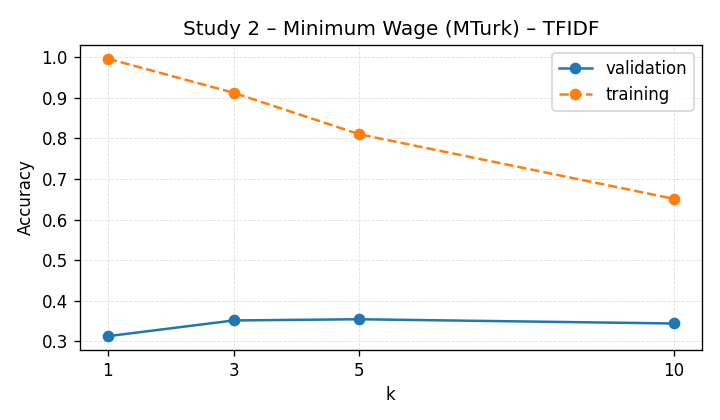
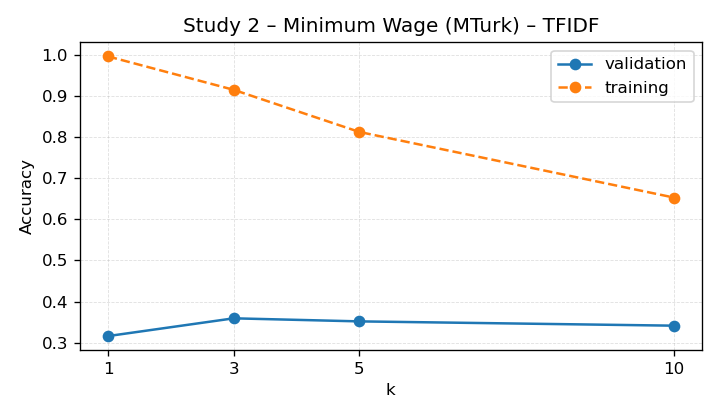
changes

diff --git a/src/gpt4o/evaluate.py b/src/gpt4o/evaluate.py
@@ -13,35 +13,26 @@ responses, and aggregates accuracy and formatting metrics for reporting.
 
 from __future__ import annotations
 
-import json
-import logging
-import time
-from dataclasses import dataclass
-from pathlib import Path
-from typing import TYPE_CHECKING, Iterable, Tuple
+import json, logging, time, pathlib
+import typing
 
-from common.eval_utils import ensure_hf_cache
-from common.hf_datasets import get_dataset_loaders, require_dataset_support
-from common.slate_eval import (
-    EvaluationAccumulator,
-    EvaluationFilters,
-    Observation,
-    SlateMetricsRequest,
-    bucket_from_options,
-    bucket_from_position,
-)
+t = typing
+
+from common import eval_utils as _eval_utils
+from common import hf_datasets as _hf_datasets
+from common import slate_eval
 
 from .client import ds_call
 from .config import DATASET_NAME, DEPLOYMENT_NAME, EVAL_SPLIT
 from .conversation import make_conversation_record
 from .utils import ANS_TAG, INDEX_ONLY
 
-if TYPE_CHECKING:  # pragma: no cover - typing only imports
+if t.TYPE_CHECKING:  # pragma: no cover - typing only imports
     from argparse import Namespace
 else:  # pragma: no cover - runtime fallback for type hints
     Namespace = object  # type: ignore[misc]
 
-DOWNLOAD_CONFIG_CLS, LOAD_DATASET, LOAD_FROM_DISK = get_dataset_loaders()
+DOWNLOAD_CONFIG_CLS, LOAD_DATASET, LOAD_FROM_DISK = _hf_datasets.get_dataset_loaders()
 
 
 def _parse_index_from_output(raw: str) -> int | None:
@@ -70,7 +61,7 @@ def _parse_index_from_output(raw: str) -> int | None:
     return None
 
 
-def _ensure_output_dir(output_dir: Path, overwrite: bool) -> None:
+def _ensure_output_dir(output_dir: pathlib.Path, overwrite: bool) -> None:
     """Create the evaluation output directory if it does not already exist.
 
     :param output_dir: Target directory for evaluation artifacts.
@@ -84,8 +75,7 @@ def _ensure_output_dir(output_dir: Path, overwrite: bool) -> None:
     output_dir.mkdir(parents=True, exist_ok=True)
 
 
-@dataclass(frozen=True)
-class ExampleLabels:
+class ExampleLabels(t.NamedTuple):
     """Normalised issue/study labels used for filtering and reporting."""
 
     issue_label: str
@@ -94,8 +84,7 @@ class ExampleLabels:
     study_key: str
 
 
-@dataclass(frozen=True)
-class FilterSet:
+class FilterSet(t.NamedTuple):
     """Container for requested filters and their lower-cased match set."""
 
     requested: list[str]
@@ -106,8 +95,7 @@ class FilterSet:
         return not self.active_keys or candidate in self.active_keys
 
 
-@dataclass(frozen=True)
-class FilterState:
+class FilterState(t.NamedTuple):
     """Aggregate filters for issues and participant studies."""
 
     issues: FilterSet
@@ -120,18 +108,17 @@ class FilterState:
         )
 
 
-@dataclass(frozen=True)
-class OutputPaths:
+class OutputPaths(t.NamedTuple):
     """Resolved filesystem locations for evaluation artifacts."""
 
-    root: Path
-    predictions: Path
-    metrics: Path
+    root: pathlib.Path
+    predictions: pathlib.Path
+    metrics: pathlib.Path
 
     @classmethod
-    def build(cls, out_dir: str | Path, overwrite: bool) -> "OutputPaths":
+    def build(cls, out_dir: str | pathlib.Path, overwrite: bool) -> "OutputPaths":
         """Validate and construct the output directory structure."""
-        root = Path(out_dir)
+        root = pathlib.Path(out_dir)
         _ensure_output_dir(root, overwrite)
         return cls(
             root=root,
@@ -140,8 +127,7 @@ class OutputPaths:
         )
 
 
-@dataclass(frozen=True)
-class EvaluationLimits:
+class EvaluationLimits(t.NamedTuple):
     """Encapsulates evaluation row limits for progress reporting."""
 
     eval_max: int
@@ -155,12 +141,14 @@ class EvaluationLimits:
         return cls(eval_max=eval_max, target=target)
 
 
-@dataclass
 class EvaluationState:
     """Mutable state tracked during evaluation."""
 
-    split: str = EVAL_SPLIT
-    streaming: bool = False
+    __slots__ = ("split", "streaming")
+
+    def __init__(self, *, split: str = EVAL_SPLIT, streaming: bool = False) -> None:
+        self.split = split
+        self.streaming = streaming
 
 
 class EvaluationRunner:
@@ -173,7 +161,7 @@ class EvaluationRunner:
 
         self.output = OutputPaths.build(args.out_dir, args.overwrite)
 
-        ensure_hf_cache(args.cache_dir)
+        _eval_utils.ensure_hf_cache(args.cache_dir)
 
         issues_raw = str(getattr(args, "issues", "") or "")
         studies_raw = str(getattr(args, "studies", "") or "")
@@ -188,24 +176,28 @@ class EvaluationRunner:
         self.state = EvaluationState()
 
     @staticmethod
-    def _parse_filter(raw: str) -> Tuple[list[str], set[str]]:
-        tokens = [token.strip() for token in raw.split(",") if token.strip()]
+    def _parse_filter(raw: str) -> t.Tuple[list[str], set[str]]:
+        tokens: list[str] = []
+        for segment in raw.split(","):
+            candidate = segment.strip()
+            if candidate:
+                tokens.append(candidate)
         lowered = {token.lower() for token in tokens if token}
         if "all" in lowered:
             lowered.clear()
         return tokens, lowered
 
-    def _load_dataset_iter(self) -> Iterable[dict[str, object]]:
-        dataset_path = Path(self.dataset_name)
+    def _load_dataset_iter(self) -> t.Iterable[dict[str, object]]:
+        dataset_path = pathlib.Path(self.dataset_name)
         dataset = None
 
         if dataset_path.exists():
-            require_dataset_support(needs_local=True)
+            _hf_datasets.require_dataset_support(needs_local=True)
             assert LOAD_FROM_DISK is not None  # narrow Optional for type checkers
             logging.info("Detected local dataset at %s", dataset_path)
             dataset = LOAD_FROM_DISK(str(dataset_path))  # type: ignore[arg-type]
         else:
-            require_dataset_support()
+            _hf_datasets.require_dataset_support()
             assert LOAD_DATASET is not None and DOWNLOAD_CONFIG_CLS is not None
             download_config = DOWNLOAD_CONFIG_CLS(
                 resume_download=True,
@@ -233,7 +225,7 @@ class EvaluationRunner:
             return self._load_streaming_split()
         return self._load_materialised_split(dataset)
 
-    def _load_streaming_split(self) -> Iterable[dict[str, object]]:
+    def _load_streaming_split(self) -> t.Iterable[dict[str, object]]:
         eval_split = EVAL_SPLIT
         try:
             data_iter = LOAD_DATASET(  # type: ignore[misc]
@@ -263,7 +255,7 @@ class EvaluationRunner:
             data_iter = data_iter.take(self.limits.eval_max)
         return data_iter
 
-    def _load_materialised_split(self, dataset: object) -> Iterable[dict[str, object]]:
+    def _load_materialised_split(self, dataset: object) -> t.Iterable[dict[str, object]]:
         if dataset is None:
             raise RuntimeError("Expected dataset object when not streaming.")
 
@@ -325,7 +317,7 @@ class EvaluationRunner:
 
     def _evaluate_example(
         self, example: dict[str, object]
-    ) -> Tuple[Observation, dict[str, object]] | None:
+    ) -> t.Tuple[slate_eval.Observation, dict[str, object]] | None:
         labels = self._prepare_labels(example)
         if not self._passes_filters(labels):
             return None
@@ -339,25 +331,26 @@ class EvaluationRunner:
         raw_output = self._invoke_model(messages)
         is_formatted = bool(ANS_TAG.search(raw_output))
         parsed_index = _parse_index_from_output(raw_output)
-        pos_bucket = bucket_from_position(position_index)
-        option_bucket = bucket_from_options(option_count)
+        pos_bucket = slate_eval.bucket_from_position(position_index)
+        option_bucket = slate_eval.bucket_from_options(option_count)
         eligible = gold_index > 0 and option_count > 0
         is_correct = (
             eligible and (parsed_index is not None) and (parsed_index == gold_index)
         )
 
-        observation = Observation(
-            issue_label=labels.issue_label,
-            study_label=labels.study_label,
-            position_bucket=pos_bucket,
-            option_bucket=option_bucket,
-            option_count=option_count,
-            gold_index=gold_index,
-            parsed_index=parsed_index,
-            is_formatted=is_formatted,
-            eligible=eligible,
-            is_correct=is_correct,
-        )
+        observation_fields = {
+            "issue_label": labels.issue_label,
+            "study_label": labels.study_label,
+            "position_bucket": pos_bucket,
+            "option_bucket": option_bucket,
+            "option_count": option_count,
+            "gold_index": gold_index,
+            "parsed_index": parsed_index,
+            "is_formatted": is_formatted,
+            "eligible": eligible,
+            "is_correct": is_correct,
+        }
+        observation = slate_eval.Observation(**observation_fields)
         payload = {
             "messages": messages,
             "gpt_output": raw_output,
@@ -374,7 +367,10 @@ class EvaluationRunner:
         return observation, payload
 
     def _maybe_log_progress(
-        self, seen_rows: int, start_time: float, accumulator: EvaluationAccumulator
+        self,
+        seen_rows: int,
+        start_time: float,
+        accumulator: slate_eval.EvaluationAccumulator,
     ) -> None:
         if seen_rows == 0 or seen_rows % 25:
             return
@@ -390,20 +386,20 @@ class EvaluationRunner:
             elapsed,
         )
 
-    def metrics_request(self) -> SlateMetricsRequest:
+    def metrics_request(self) -> slate_eval.SlateMetricsRequest:
         """Construct the payload used when serialising evaluation metrics."""
         model_name = getattr(self.args, "deployment", None) or DEPLOYMENT_NAME
-        return SlateMetricsRequest(
+        return slate_eval.SlateMetricsRequest(
             model_name=model_name,
             dataset_name=self.dataset_name,
             eval_split=self.state.split,
-            filters=EvaluationFilters(
+            filters=slate_eval.EvaluationFilters(
                 issues=self.filters.issues.requested,
                 studies=self.filters.studies.requested,
             ),
         )
 
-    def _print_summary(self, accumulator: EvaluationAccumulator) -> None:
+    def _print_summary(self, accumulator: slate_eval.EvaluationAccumulator) -> None:
         summary_bits = [
             f"[DONE] dataset={self.dataset_name}",
             f"split={self.state.split}",
@@ -421,7 +417,7 @@ class EvaluationRunner:
     def run(self) -> None:
         """Execute the full evaluation workflow."""
         data_iter = self._load_dataset_iter()
-        accumulator = EvaluationAccumulator()
+        accumulator = slate_eval.EvaluationAccumulator()
         start_time = time.time()
         seen_rows = 0
 
@@ -438,7 +434,8 @@ class EvaluationRunner:
 
         metrics = accumulator.metrics_payload(self.metrics_request())
         with open(self.output.metrics, "w", encoding="utf-8") as handle:
-            json.dump(metrics, handle, ensure_ascii=False, indent=2)
+            serialised = json.dumps(metrics, ensure_ascii=False, indent=2)
+            handle.write(serialised)
 
         self._print_summary(accumulator)
 

diff --git a/reports/xgb/next_video/README.md b/reports/xgb/next_video/README.md
@@ -11,15 +11,17 @@ Slate-ranking accuracy for the selected XGBoost configuration.
 
 ## Portfolio Summary
 
-- Weighted accuracy 0.987 across 548 evaluated slates.
-- Weighted known-candidate coverage 0.991 over 546 eligible slates.
-- Known-candidate availability 0.996 relative to all evaluated slates.
-- Mean predicted probability on known candidates 0.936 (across 1 study with recorded probabilities).
-- Highest study accuracy: Study 1 – Gun Control (MTurk) (0.987).
+- Weighted accuracy 0.991 across 1,219 evaluated slates.
+- Weighted known-candidate coverage 0.993 over 1,217 eligible slates.
+- Known-candidate availability 0.998 relative to all evaluated slates.
+- Mean predicted probability on known candidates 0.950 (across 2 studies with recorded probabilities).
+- Highest study accuracy: Study 2 – Minimum Wage (MTurk) (0.994).
+- Lowest study accuracy: Study 1 – Gun Control (MTurk) (0.987).
 
 | Study | Issue | Accuracy ↑ | Correct / evaluated | Coverage ↑ | Known hits / total | Known availability ↑ | Avg prob ↑ |
 | --- | --- | ---: | --- | ---: | --- | ---: | ---: |
 | Study 1 – Gun Control (MTurk) | Gun Control | 0.987 | 541/548 | 0.991 | 541/546 | 0.996 | 0.936 |
+| Study 2 – Minimum Wage (MTurk) | Minimum Wage | 0.994 | 667/671 | 0.994 | 667/671 | 1.000 | 0.963 |
 
 ## Accuracy Curves
 
@@ -32,6 +34,7 @@ Leave-one-study-out metrics were unavailable when this report was generated.
 ## Observations
 
 - Study 1 – Gun Control (MTurk): accuracy 0.987, coverage 0.991, known availability 0.996.
-- Average accuracy 0.987.
-- Known coverage averages 0.991.
-- Known candidate availability averages 0.996.
+- Study 2 – Minimum Wage (MTurk): accuracy 0.994, coverage 0.994, known availability 1.000.
+- Average accuracy 0.991.
+- Known coverage averages 0.992.
+- Known candidate availability averages 0.998.

diff --git a/reports/knn/next_video/README.md b/reports/knn/next_video/README.md
@@ -14,15 +14,16 @@ This report summarises the slate-ranking KNN model that predicts the next clicke
 
 | Feature space | Weighted accuracy ↑ | Δ vs baseline ↑ | Random ↑ | Eligible | Studies |
 | --- | ---: | ---: | ---: | ---: | ---: |
-| TFIDF | 0.717 | +0.177 | 0.326 | 548 | 1 |
+| TFIDF | 0.520 | +0.075 | 0.287 | 1,219 | 2 |
 
-Best-performing feature space: **TFIDF** with weighted accuracy 0.717 across 548 eligible slates (1 studies).
+Best-performing feature space: **TFIDF** with weighted accuracy 0.520 across 1,219 eligible slates (2 studies).
 
 ## TF-IDF Feature Space
 
 | Study | Accuracy ↑ | 95% CI | Δ vs baseline ↑ | Baseline ↑ | Random ↑ | Best k | Eligible | Total |
 | --- | ---: | --- | ---: | ---: | ---: | ---: | ---: | ---: |
 | Study 1 – Gun Control (MTurk) | 0.717 | [0.674, 0.757] | +0.177 | 0.540 | 0.326 | 3 | 548 | 548 |
+| Study 2 – Minimum Wage (MTurk) | 0.359 | [0.323, 0.395] | -0.009 | 0.368 | 0.255 | 3 | 671 | 671 |
 
 ## Accuracy Curves
 
@@ -30,9 +31,13 @@ Best-performing feature space: **TFIDF** with weighted accuracy 0.717 across 548
 
 ![Accuracy curve](curves/tfidf/study1.png)
 
+### Study 2 – Minimum Wage (MTurk) (TFIDF)
+
+![Accuracy curve](curves/tfidf/study2.png)
+
 ## Observations
 
-- TFIDF: Study 1 – Gun Control (MTurk): 0.717 (baseline 0.540, Δ +0.177, k=3, eligible 548); averages: mean Δ +0.177, mean random 0.326.
+- TFIDF: Study 1 – Gun Control (MTurk): 0.717 (baseline 0.540, Δ +0.177, k=3, eligible 548); Study 2 – Minimum Wage (MTurk): 0.359 (baseline 0.368, Δ -0.009, k=3, eligible 671); averages: mean Δ +0.084, mean random 0.291.
 - Random values approximate the accuracy from uniformly guessing across the slate.
 
 Leave-one-study-out metrics were unavailable when this report was generated.

diff --git a/reports/knn/additional_features/README.md b/reports/knn/additional_features/README.md
@@ -93,6 +93,7 @@ Overview of the supplementary text columns appended to the viewer prompt alongsi
 | Feature space | Study | Extra text fields |
 | --- | --- | --- |
 | tfidf | Study 1 – Gun Control (MTurk) | `viewer_profile`, `state_text` |
+| tfidf | Study 2 – Minimum Wage (MTurk) | `viewer_profile`, `state_text`, `freq_youtube` |
 
 ## Opinion Regression
 

diff --git a/reports/xgb/additional_features/README.md b/reports/xgb/additional_features/README.md
@@ -231,6 +231,7 @@ This report tracks the supplementary text columns appended to the prompt builder
 | Study | Issue | Extra text fields |
 | --- | --- | --- |
 | Study 1 – Gun Control (MTurk) | Gun Control | `viewer_profile`, `state_text` |
+| Study 2 – Minimum Wage (MTurk) | Minimum Wage | `viewer_profile`, `state_text` |
 
 ## Opinion Regression
 
